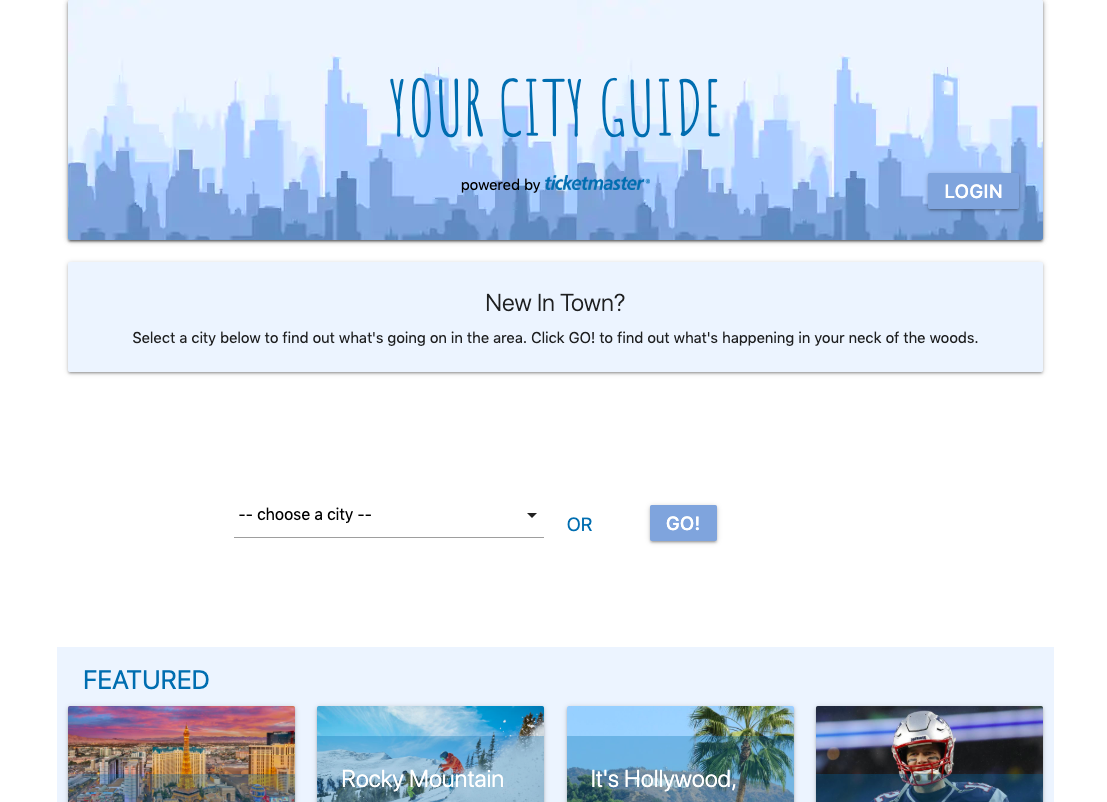
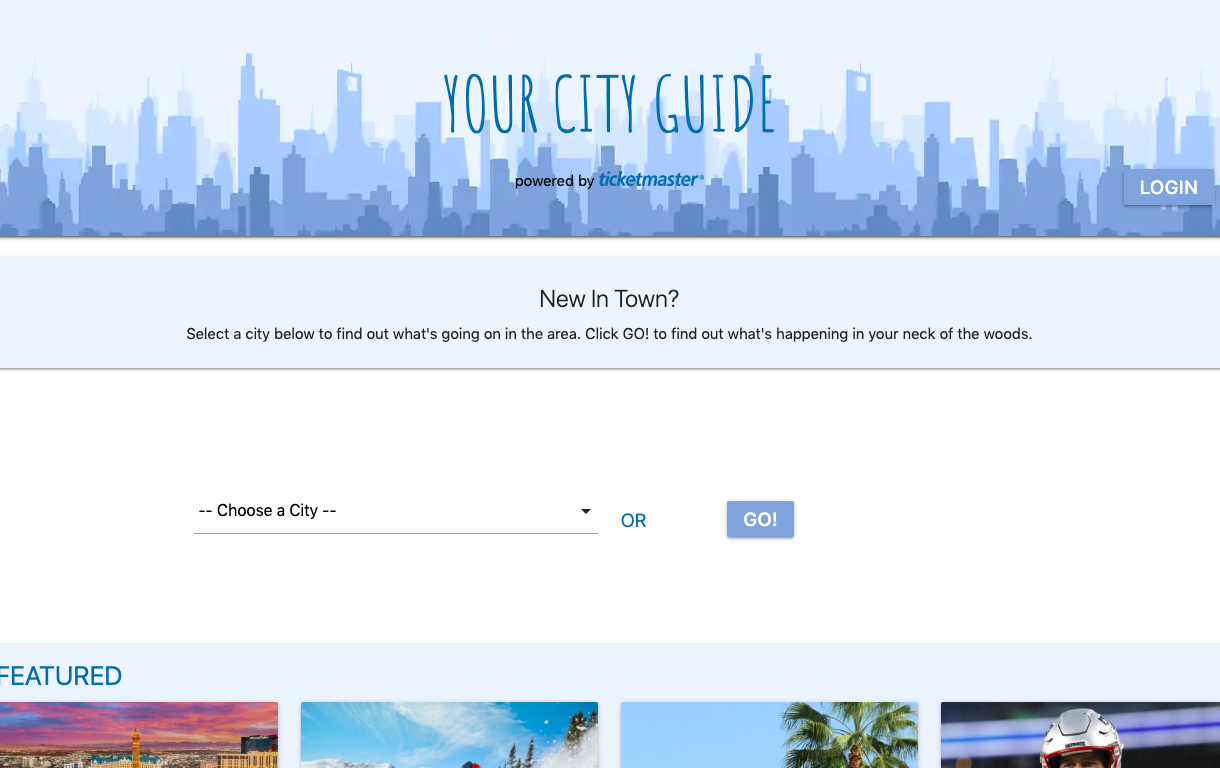
added second and third project highlights

diff --git a/index.html b/index.html
@@ -130,34 +130,61 @@
                     </ol>
                     <div class="carousel-inner">
                         <div class="carousel-item active">
-                            <a href="https://github.com/JemL41287/Project-1" target="_blank">
+                            <a href="https://tomatoma891.github.io/Project-1/" target="_blank">
                                 <img src="assets/landingpage.png" class="d-block w-100" alt="Your City Guide"></a>
                             <div class="carousel-caption">
-                                <div class="project-underline"></div><br>
                                 <div class="caption">
                                     <h5>Your City Guide</h5>
                                     <p>Your City Guide is an application that assists the user with finding events
-                                        and dining relevant to their location or the city selected. Once the user selects a city,
-                                        they're able to filter events based on genre and select an option to add dining and
+                                        and dining relevant to their location or the city selected. Once the user
+                                        selects a city,
+                                        they're able to filter events based on genre and select an option to add dining
+                                        and
                                         make a reservation at a restaurant near that event.
                                     </p>
                                     <p>technology: HTML, CSS, Materialize, Javascript, JQuery, API requests <br>
-                                    github repo: <a href="https://github.com/JemL41287/Project-1"> click here</a> </p>
+                                        github repo: <a href="https://github.com/JemL41287/Project-1">click here</a>
+                                    </p>
                                 </div>
                             </div>
                         </div>
                         <div class="carousel-item">
-                            <img src="..." class="d-block w-100" alt="...">
-                            <div class="carousel-caption d-none d-md-block">
-                                <h5>Second slide label</h5>
-                                <p>Lorem ipsum dolor sit amet, consectetur adipiscing elit.</p>
+                            <a href="https://jeml41287.github.io/Weather-Dashboard/" target="_blank">
+                                <img src="assets/weather_dashboard.png" class="d-block w-100"
+                                    alt="Weather Dashboard"></a>
+                            <div class="carousel-caption">
+                                <div class="caption">
+                                    <h5>Weather Dashboard</h5>
+                                    <p>Weather Dashboard is an application with search functionality to find current
+                                        weather conditions and the future weather outlook for multiple cities. This app
+                                        runs in the browser and features dynamically updated HTML and CSS powered by
+                                        jQuery.
+                                    </p>
+                                    <p>technology: HTML, CSS, Bootstrap, JavaScript, jQuery, Moment.js, OpenWeather API
+                                        github repo: <a href="https://github.com/JemL41287/Weather-Dashboard">click
+                                            here</a>
+                                    </p>
+                                </div>
                             </div>
                         </div>
                         <div class="carousel-item">
-                            <img src="..." class="d-block w-100" alt="...">
-                            <div class="carousel-caption d-none d-md-block">
-                                <h5>Third slide label</h5>
-                                <p>Praesent commodo cursus magna, vel scelerisque nisl consectetur.</p>
+                            <a href="https://jeml41287.github.io/Password-Generator/" target="_blank">
+                                <img src="assets/password_generator.png" class="d-block w-100"
+                                    alt="Password Generator"></a>
+                            <div class="carousel-caption">
+                                <div class="caption">
+                                    <h5>Password Generator</h5>
+                                    <p>Password Generator is an application which generates a random password based on
+                                        user-selected
+                                        criteria. This app runs in the browser and features dynamically updated HTML and
+                                        CSS powered
+                                        by JavaScript code.
+                                    </p>
+                                    <p>technology: HTML, CSS, Bootstrap, JavaScript
+                                        github repo: <a href="https://github.com/JemL41287/Password-Generator">click
+                                            here</a>
+                                    </p>
+                                </div>
                             </div>
                         </div>
                     </div>

diff --git a/style.css b/style.css
@@ -92,22 +92,17 @@ h3 {
 
 .project-list {
     padding-bottom: 30px;
-    margin-right: 20%;
-    margin-left: 20%;
     padding-right: 15px;
     padding-right: 15px;
-}
+    margin-right: 10%;
+    margin-left: 10%;
 
-.project-underline {
-    position: absolute;
-    top: 23%;
-    left: 40%;
-    border-top: 3px solid #B8ABFA;
-    width: 20%;
+
 }
 
 .caption {
     color: #F4F1F7;
     background-color: #21044F;
     padding: 10px;
+    margin-top: 20%;
 }
